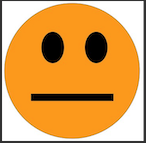
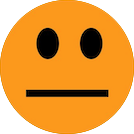
corrected bug of dataframe empty when keyword2 empty, harmonized smiley images

diff --git a/main.py b/main.py
@@ -43,6 +43,9 @@ def analyse_articles():
 
     if st.button('Lancer ma recherche  🚀 '):
 
+        if len(keyword2) == 0:
+            keyword2 = keyword         
+
         df_result = url_seeker(keyword, keyword2, nombre_resultat)
 
         df_result.drop(['img','datetime','desc'], axis = 1, inplace = True)
@@ -101,13 +104,13 @@ def analyse_articles():
                 
                 st.write("Le sentiment général de l'article :")
                 if df_final_sentiment['final_sentiment_hugging'][i] == "positif":
-                    st.image(pos, caption='positif')
+                    st.image(pos, caption='positif', width = 100)
 
                 elif df_final_sentiment['final_sentiment_hugging'][i] == "negatif":
-                    st.image(neg, caption='negatif')
+                    st.image(neg, caption='negatif', width = 100)
 
                 elif df_final_sentiment['final_sentiment_hugging'][i] == "neutre":
-                    st.image(neutre, caption='neutre')
+                    st.image(neutre, caption='neutre', width = 100)
 
                 st.write("Mots clés de l'article : ")
 
@@ -184,7 +187,7 @@ def read_me():
                 les url d'articles de presse en ligne en fonction de mots clés recherchés.")
         
     st.markdown("Les sites sur lesquels sont diffusés les articles de presse contiennent de nombreuses \
-                informations, ils sont tous construits d'une manière qui leurs est propre, \
+                informations, ils sont tous construits d'une manière qui leur est propre, \
                 l'objectif de **The press Watch** est de ne récupèrer que le contenu de l'article.")
 
     st.markdown("Grâce à cela, **The press Watch** indique ensuite quels sont les éléments positifs ou négatifs\

diff --git a/packages/sentiments_resume.py b/packages/sentiments_resume.py
@@ -33,7 +33,7 @@ multilang_classifier = pipeline("sentiment-analysis", model="nlptown/bert-base-m
 nlp = spacy.load("fr_core_news_sm")
 
 # ajouts de stopwords a la liste existante
-stop_words = stopwords.words("french") + ['ce','cette','après','très','ça','avoir','près','a','comme','cet','tout','toute','plus','sous']
+stop_words = stopwords.words("french") + ['ce','cette','après','très','ça','avoir','près','a','comme','cet','tout','toute','plus','sous','leurs','leur']
 
 # création de la liste de mots via un pattern spacy 
 matcher = Matcher(nlp.vocab)
@@ -135,12 +135,12 @@ def final_sentiment(df_test):
             if (positive_length_text / full_length_text) >= 0.8:  
                 df_test['final_sentiment_hugging'][i] = 'positif'
 
-            # si un article contient au moins 20% de phrases negatives, il est negatif
+            # si un article contient au moins 30% de phrases negatives, il est negatif
             # les parties negatives peuvent occuper peu de place dans un article de presse 
             # car le ton est en general modéré, ou les parties positives et negatives s'équilibrent, 
             # mais les phrases negatives qui ont pu etre determinees comme tel par notre modele
             # sont des phrases qui ont un impact fort sur le sentiment general de l'article
-            elif (negative_length_text / full_length_text) >= 0.2:
+            elif (negative_length_text / full_length_text) >= 0.3:
                 df_test['final_sentiment_hugging'][i] = 'negatif'
             
             # si ces conditions ne sont pas remplies, on peut affiner l'analyse, et ne plus 
